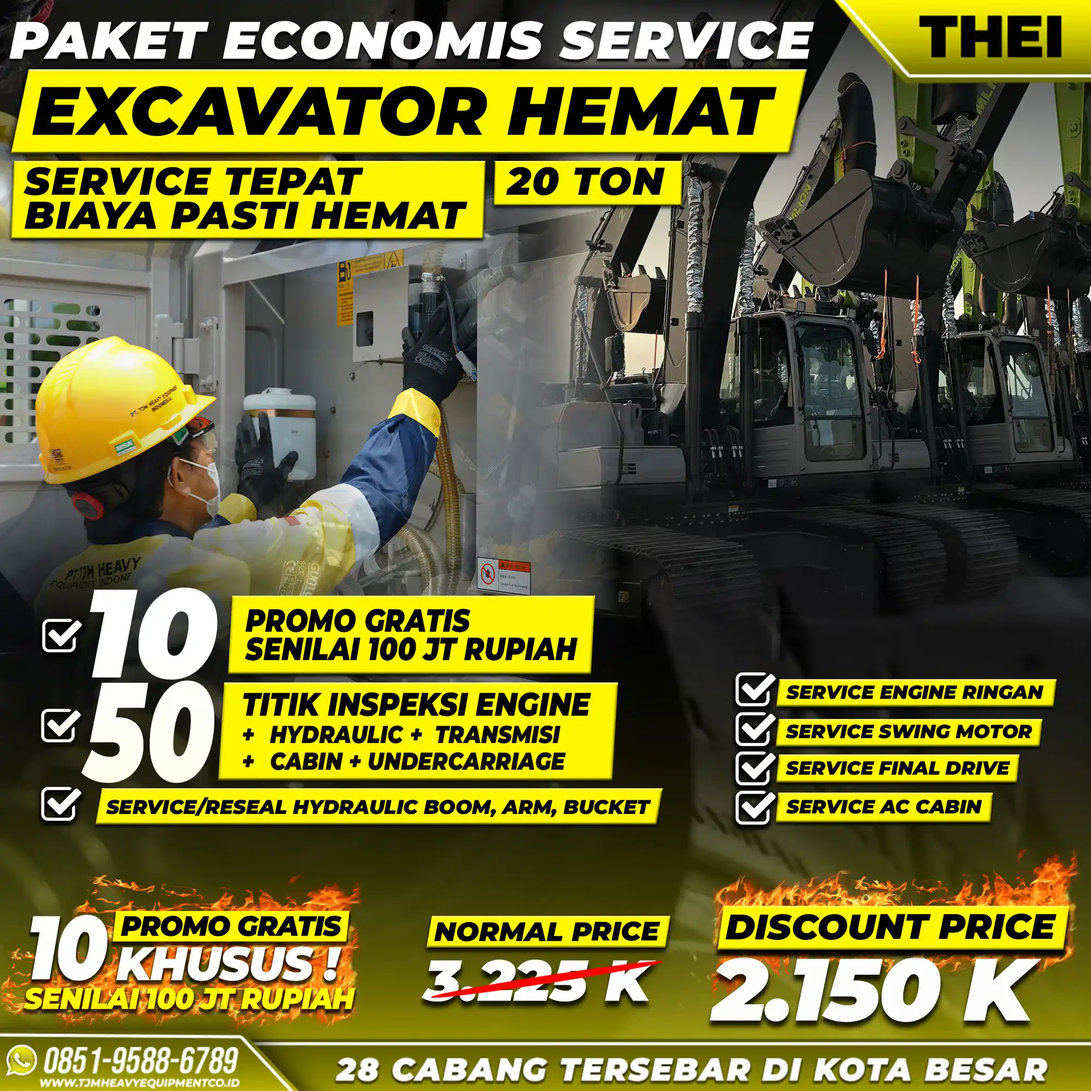
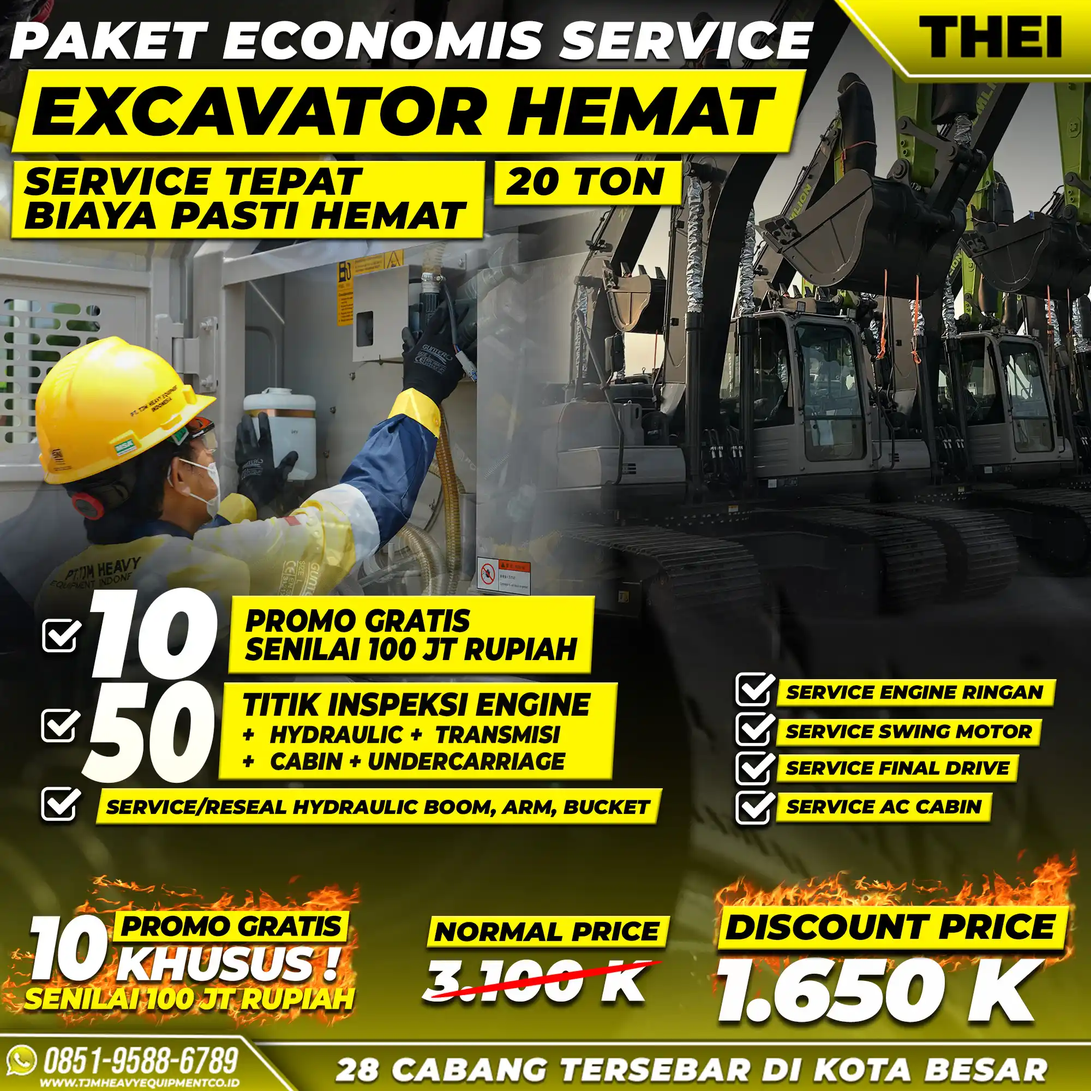
Update Grafis Paket Repair Hemat

Changed region(s): [[0.651, 0.868, 0.961, 0.961], [0.434, 0.868, 0.589, 0.93]]

diff --git a/src/data/data.js b/src/data/data.js
@@ -859,6 +859,30 @@ export const premiumServices = [
 // ==========================================
 export const economisServices = [
   {
+    id: 'e-1',
+    title: 'PAKET SERVICE FORKLIFT HEMAT',
+    capacity: '1-3 TON',
+    image: '/hemat/forklift.webp',
+    priceNormal: 2800000, // dari image: 2.800 K
+    pricePromo: 1400000, // dari image: 1.400 K
+  },
+  {
+    id: 'e-4',
+    title: 'PAKET SERVICE BOOM LIFT HEMAT',
+    capacity: '10-25 METER',
+    image: '/hemat/boom.webp',
+    priceNormal: 2800000, // dari image: 2.800 K
+    pricePromo: 1400000, // dari image: 1.400 K
+  },
+  {
+    id: 'e-2',
+    title: 'PAKET SERVICE MINI EXCAVATOR HEMAT',
+    capacity: '5-10 TON',
+    image: '/hemat/miniex.webp',
+    priceNormal: 2900000, // dari image: 2.900 K
+    pricePromo: 1450000, // dari image: 1.450 K
+  },
+  {
     id: 'e-11',
     title: 'PAKET SERVICE DUMP TRUCK HEMAT',
     capacity: '40 TON',
@@ -915,36 +939,20 @@ export const economisServices = [
     pricePromo: 1550000,
   },
   {
-    id: 'e-4',
-    title: 'PAKET SERVICE BOOM LIFT HEMAT',
-    capacity: '10-25 METER',
-    image: '/hemat/boom.webp',
-    priceNormal: 2999000,
-    pricePromo: 1999000,
+    id: 'e-9',
+    title: 'PAKET SERVICE MOTOR GRADER HEMAT',
+    capacity: '13 TON',
+    image: '/hemat/grader.webp',
+    priceNormal: 3100000, // dari image: 3.100 K
+    pricePromo: 1550000, // dari image: 1.550 K
   },
   {
-    id: 'e-2',
-    title: 'PAKET SERVICE MINI EXCAVATOR HEMAT',
-    capacity: '5-10 TON',
-    image: '/hemat/miniex.webp',
-    priceNormal: 3075000,
-    pricePromo: 2050000,
-  },
-  {
-    id: 'e-1',
-    title: 'PAKET SERVICE FORKLIFT HEMAT',
-    capacity: '1-3 TON',
-    image: '/hemat/forklift.webp',
-    priceNormal: 3150000,
-    pricePromo: 2100000,
-  },
-  {
-    id: 'e-6',
-    title: 'PAKET SERVICE EXCAVATOR HEMAT',
-    capacity: '20 TON',
-    image: '/hemat/ex.webp',
-    priceNormal: 3225000,
-    pricePromo: 2150000,
+    id: 'e-7',
+    title: 'PAKET SERVICE WIDE DUMP TRUCK HEMAT',
+    capacity: '60 TON',
+    image: '/hemat/wdt.webp',
+    priceNormal: 3100000, // dari image: 3.100 K
+    pricePromo: 1550000, // dari image: 1.550 K
   },
   {
     id: 'e-19',
@@ -955,36 +963,20 @@ export const economisServices = [
     pricePromo: 1600000,
   },
   {
-    id: 'e-9',
-    title: 'PAKET SERVICE MOTOR GRADER HEMAT',
-    capacity: '13 TON',
-    image: '/hemat/grader.webp',
-    priceNormal: 3200000,
-    pricePromo: 2200000,
-  },
-  {
-    id: 'e-10',
-    title: 'PAKET SERVICE VIBRO ROLLER / COMPACTOR HEMAT',
-    capacity: '6-12 TON',
-    image: '/hemat/vibro.webp',
-    priceNormal: 3675000,
-    pricePromo: 2450000,
-  },
-  {
-    id: 'e-7',
-    title: 'PAKET SERVICE WIDE DUMP TRUCK HEMAT',
-    capacity: '60 TON',
-    image: '/hemat/wdt.webp',
-    priceNormal: 3825000,
-    pricePromo: 2550000,
+    id: 'e-6',
+    title: 'PAKET SERVICE EXCAVATOR HEMAT',
+    capacity: '20 TON',
+    image: '/hemat/ex.webp',
+    priceNormal: 3100000, // dari image: 3.100 K
+    pricePromo: 1650000, // dari image: 1.650 K
   },
   {
     id: 'e-8',
     title: 'PAKET SERVICE WHEEL LOADER HEMAT',
     capacity: '4,5 M³',
     image: '/hemat/wheel.webp',
-    priceNormal: 4499000,
-    pricePromo: 2999000,
+    priceNormal: 3300000, // dari image: 3.300 K
+    pricePromo: 1650000, // dari image: 1.650 K
   },
   {
     id: 'e-17',
@@ -993,6 +985,14 @@ export const economisServices = [
     image: '/hemat/empty.webp',
     priceNormal: 4500000,
     pricePromo: 2250000,
+  },
+  {
+    id: 'e-10',
+    title: 'PAKET SERVICE VIBRO ROLLER / COMPACTOR HEMAT',
+    capacity: '6-12 TON',
+    image: '/hemat/vibro.webp',
+    priceNormal: 4900000, // dari image: 4.900 K
+    pricePromo: 2450000, // dari image: 2.450 K
   },
 ];
 
